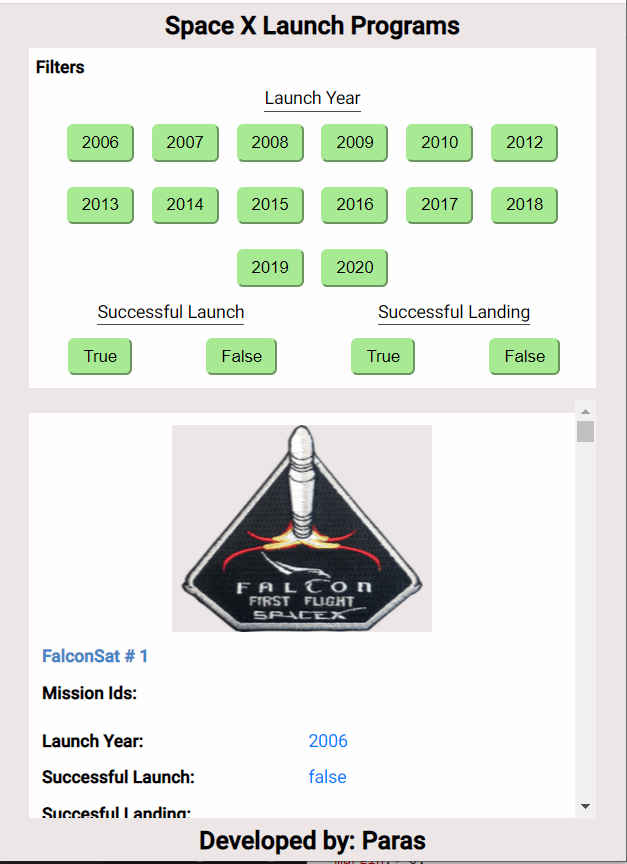
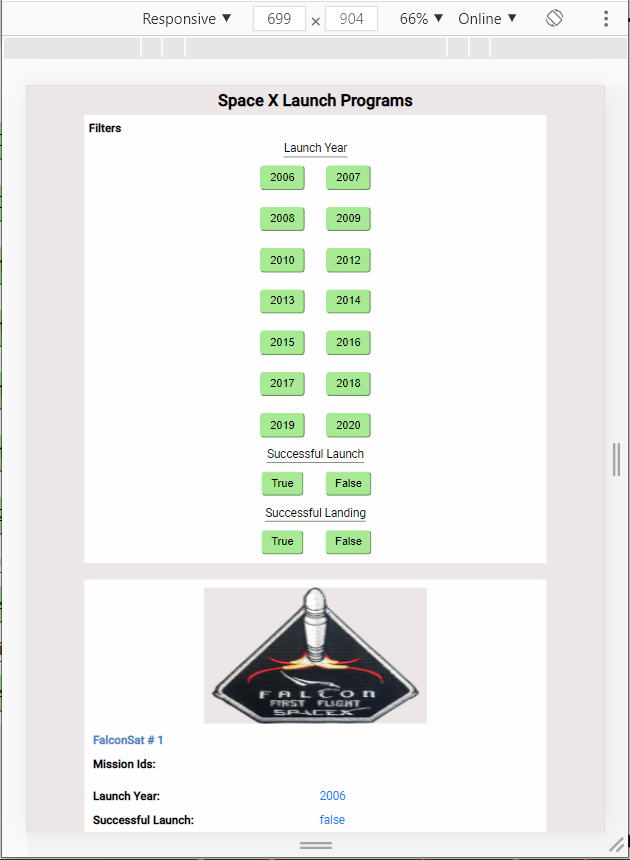
mobile mode updated

diff --git a/src/app/components/controls/controls.component.scss b/src/app/components/controls/controls.component.scss
@@ -63,25 +63,25 @@
 
 @media only screen and (max-width: 700px) {
   .left-panel {
-    width: 90vw;
+    width: 80vw;
     margin: 0px 0px 5px 0px !important;
   }
-  .control-sections {
-    width: 100% !important;
-    .button-panel {
-      width: 15% !important;
-    }
-  }
+  // .control-sections {
+  //   width: 100% !important;
+  //   .button-panel {
+  //     width: 15% !important;
+  //   }
+  // }
 
-  .launch-land-buttons-section {
-    display: flex;
-    justify-content: center;
-    align-items: center;
-    .left-panel-sections {
-      width: 50% !important;
-      .button-container {
-        justify-content: space-around !important;
-      }
-    }
-  }
+  // .launch-land-buttons-section {
+  //   display: flex;
+  //   justify-content: center;
+  //   align-items: center;
+  //   .left-panel-sections {
+  //     width: 50% !important;
+  //     .button-container {
+  //       justify-content: space-around !important;
+  //     }
+  //   }
+  // }
 }

diff --git a/src/app/app.component.scss b/src/app/app.component.scss
@@ -31,10 +31,13 @@
 
 @media only screen and (max-width: 700px) {
   .main-container {
+    height: unset !important;
+    top: unset !important;
+    bottom: unset !important;
     flex-direction: column;
     align-items: center;
     .right-panel {
-      width: 90vw;
+      width: 80vw;
       margin: 5px 0px;
     }
     .right-panel {

diff --git a/src/app/components/footer/footer.component.scss b/src/app/components/footer/footer.component.scss
@@ -9,3 +9,9 @@ footer {
   font-size: 20px;
   font-weight: 700;
 }
+
+@media only screen and (max-width: 700px) {
+  footer {
+    position: relative !important;
+  }
+}

diff --git a/src/app/components/header/header.component.scss b/src/app/components/header/header.component.scss
@@ -9,3 +9,9 @@ header {
   font-size: 20px;
   font-weight: 700;
 }
+
+@media only screen and (max-width: 700px) {
+  header {
+    position: relative !important;
+  }
+}
